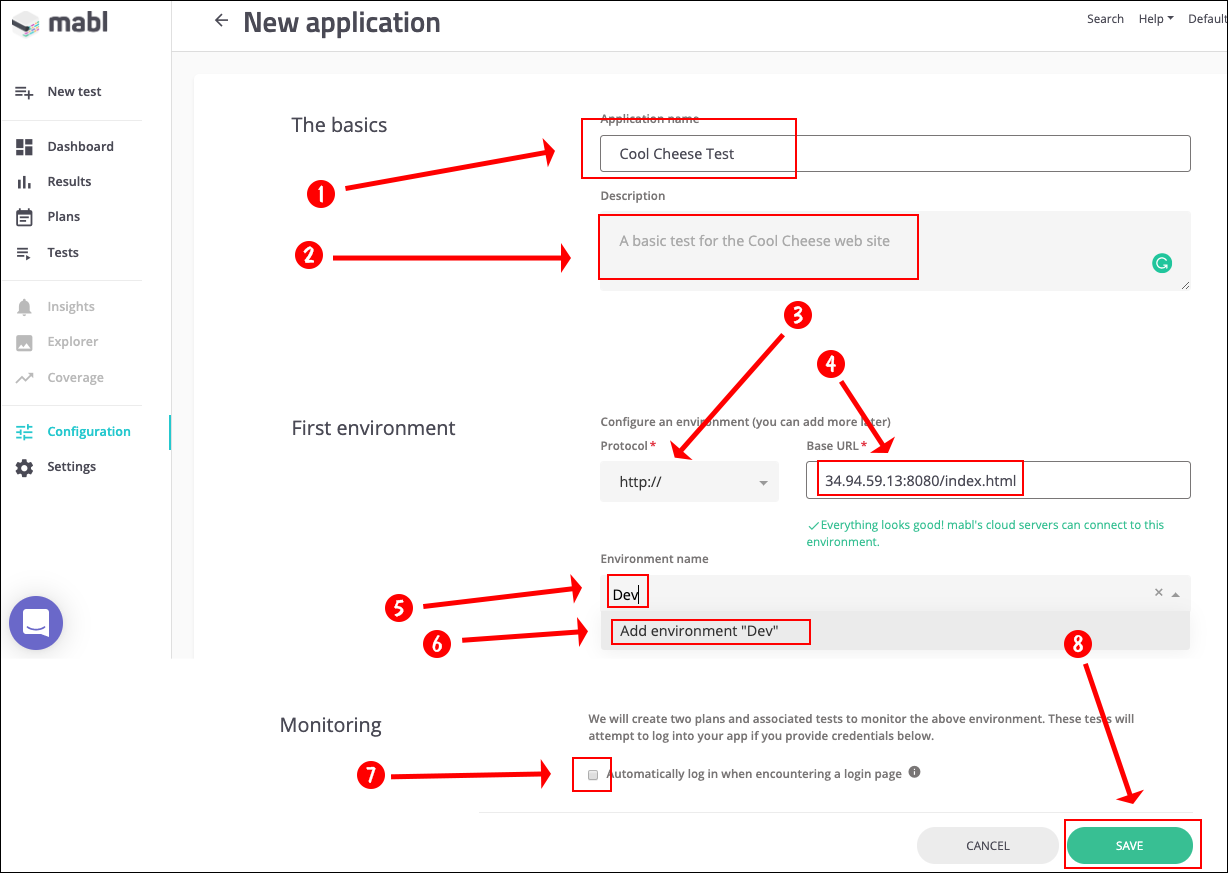
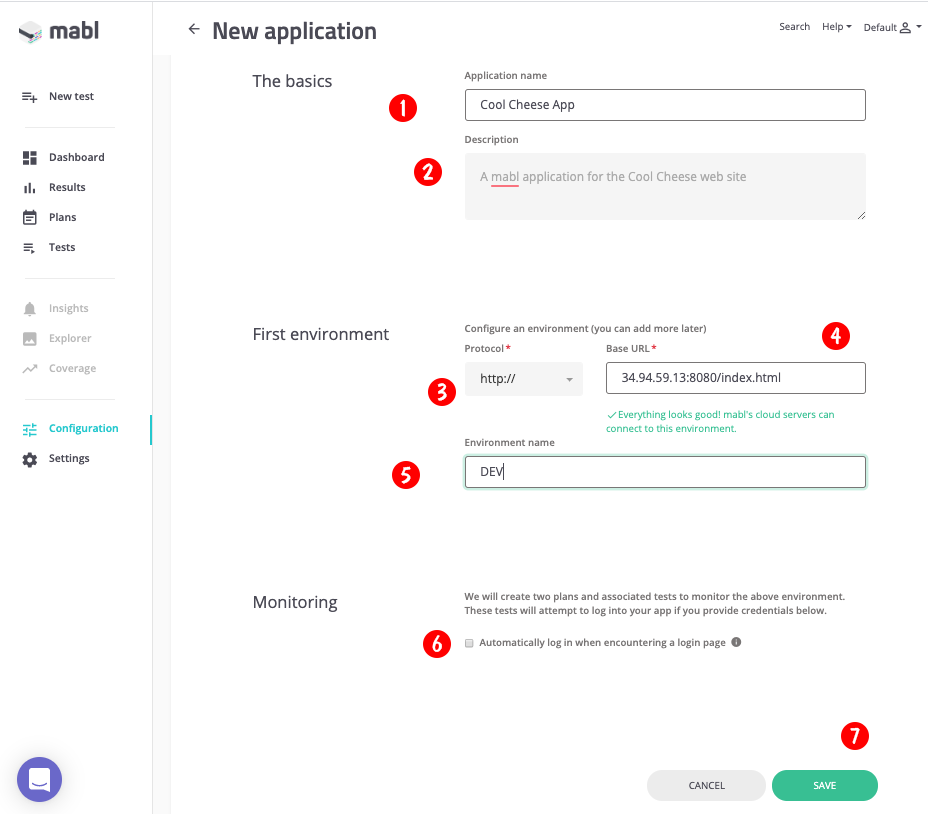
adding Create a Test

diff --git a/using-mabl-creating-a-test/step02.md b/using-mabl-creating-a-test/step02.md
@@ -12,3 +12,7 @@
 **Step 2:** 
 
 ![Configure App 2](/reselbob/scenarios/using-mabl-creating-a-test/assets/app-config-02.png)
+
+**Step 3:** 
+
+![Configure App 2](/reselbob/scenarios/using-mabl-creating-a-test/assets/app-config-03.png)
